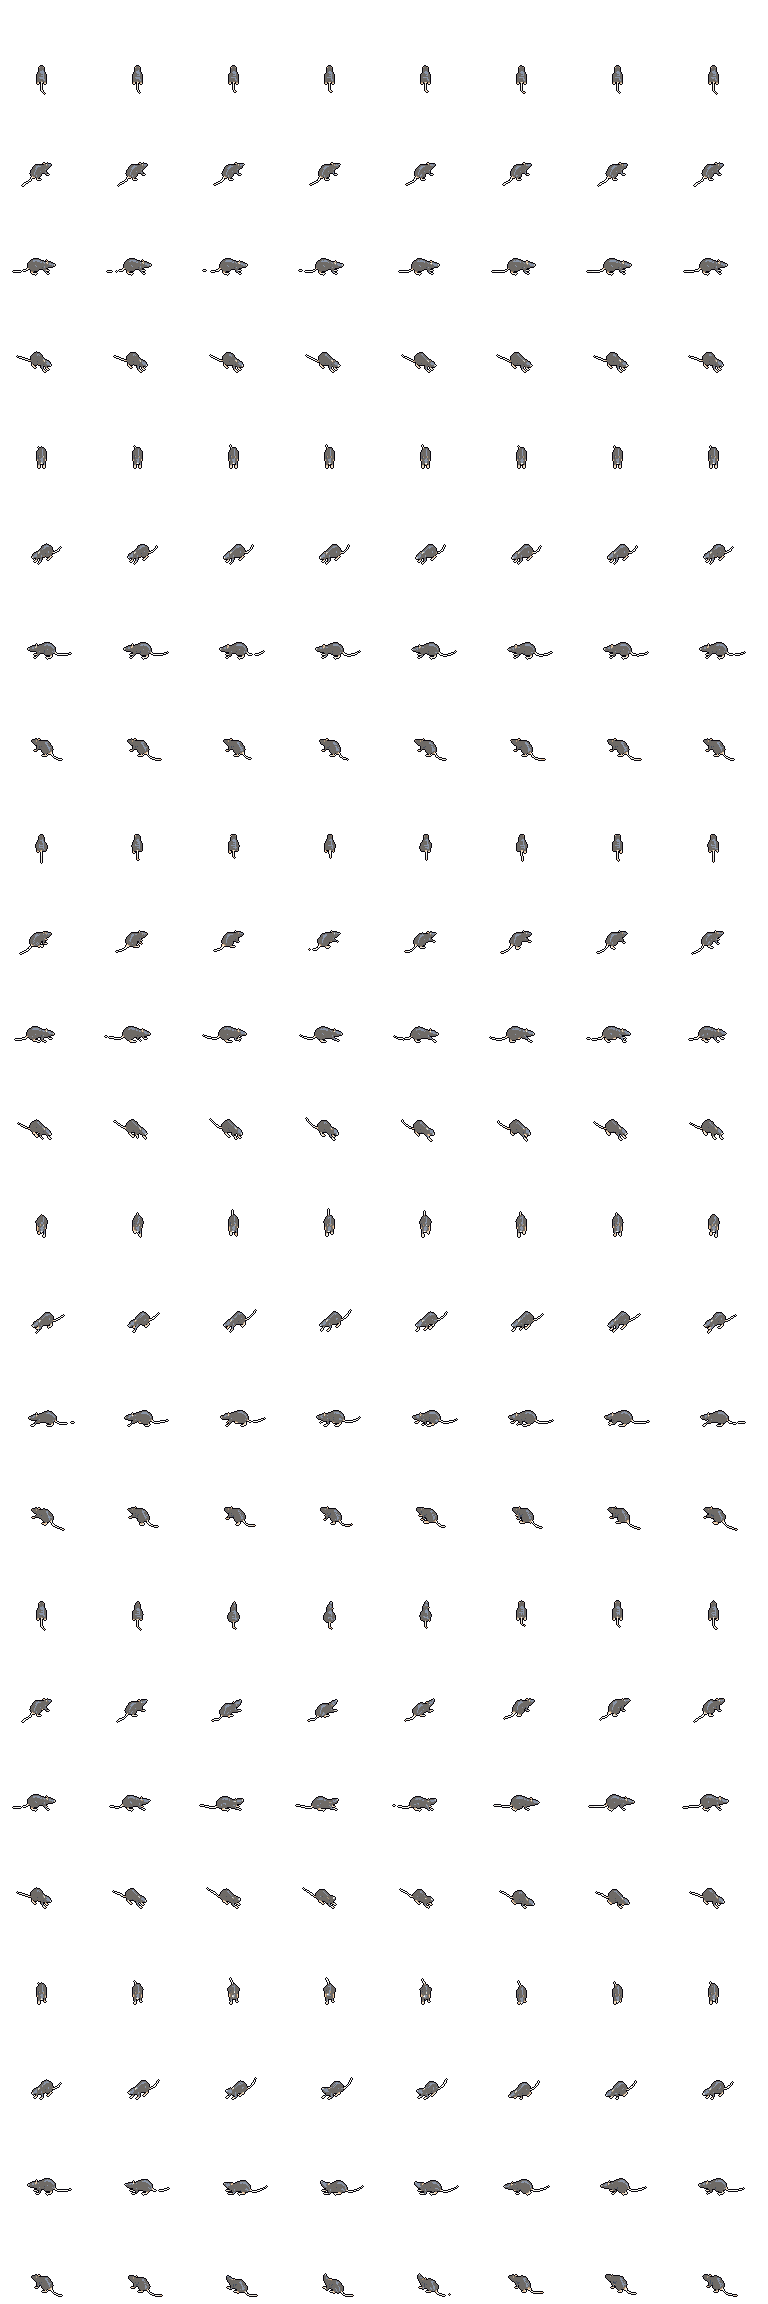
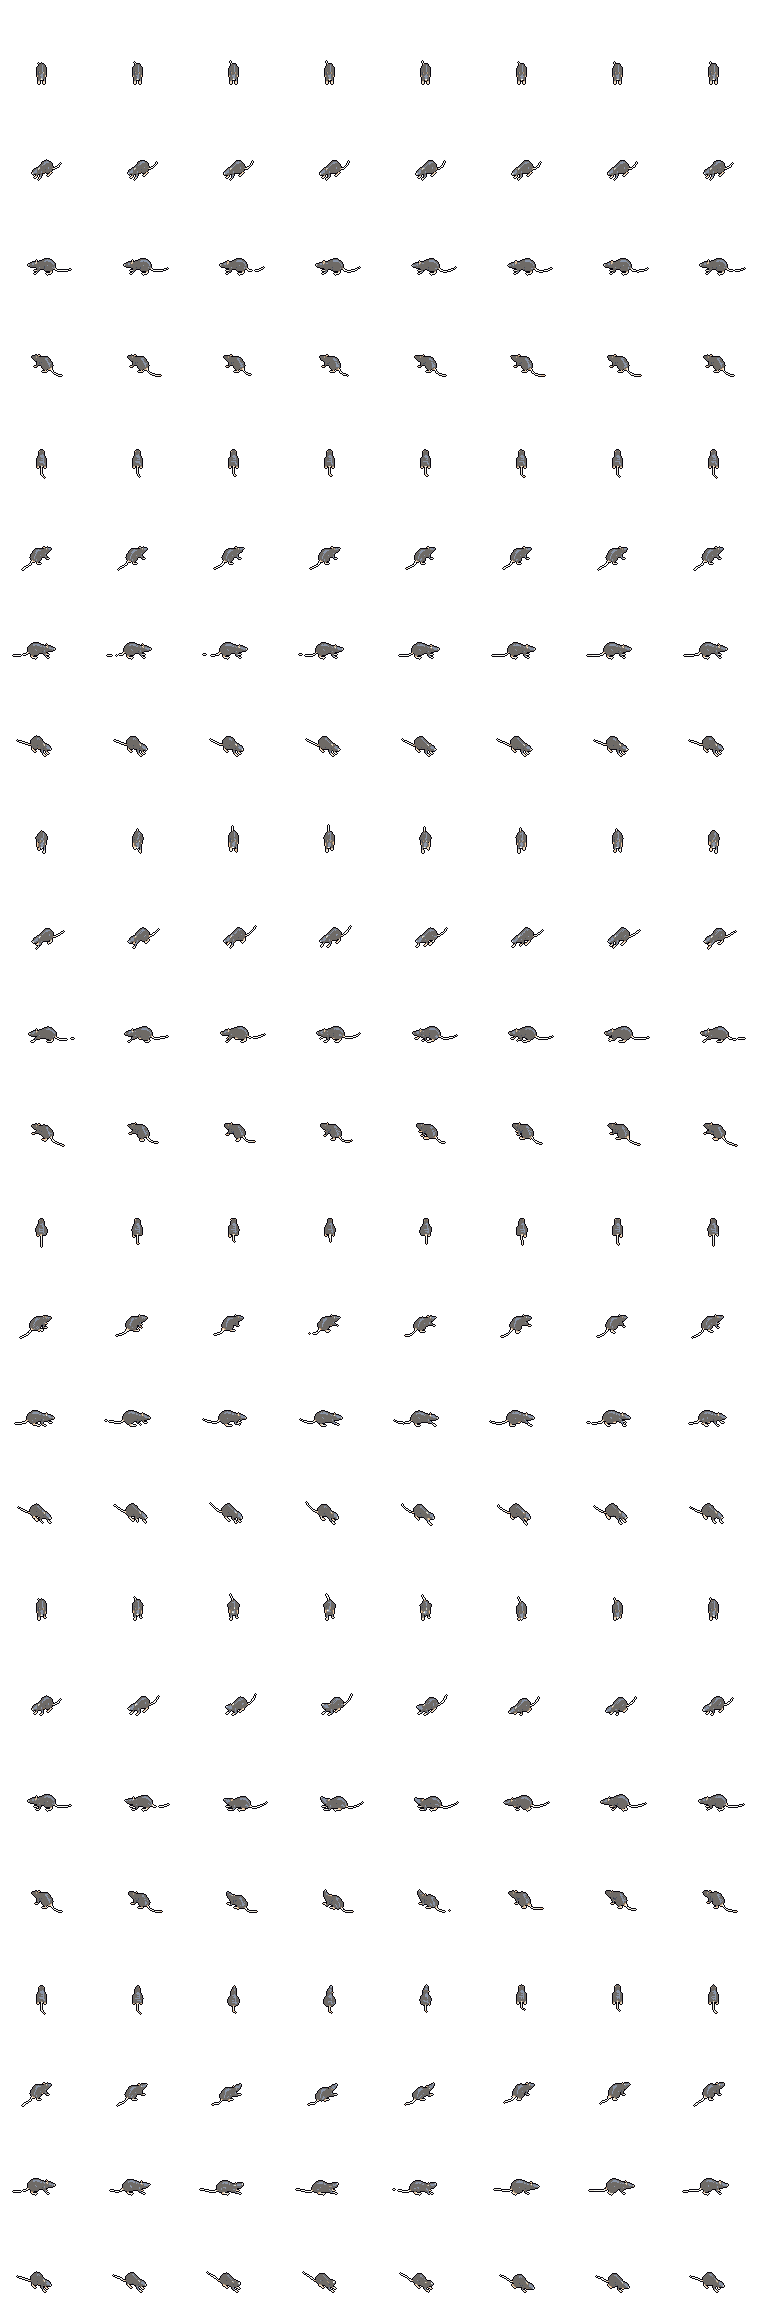
The giant rat, the worg and the hyena stand-in faced backwards too: same 180-degree sheets as the wolf, each facing row swapped with its opposite

diff --git a/deep16/data/sprites.js b/deep16/data/sprites.js
@@ -1724,7 +1724,7 @@
 }
 },
 "giantrat_p1": {
-"image": "art/giantrat_p1.png?v=3dcdc472a1",
+"image": "art/giantrat_p1.png?v=2056503c95",
 "fw": 96,
 "fh": 96,
 "ax": 48,
@@ -2554,7 +2554,7 @@
 }
 },
 "hyena_p1": {
-"image": "art/hyena_p1.png?v=a2128bb51c",
+"image": "art/hyena_p1.png?v=b0febb426b",
 "fw": 96,
 "fh": 96,
 "ax": 48,
@@ -4967,7 +4967,7 @@
 }
 },
 "worg_p1": {
-"image": "art/worg_p1.png?v=8d495ead01",
+"image": "art/worg_p1.png?v=1c680e8e0f",
 "fw": 120,
 "fh": 122,
 "ax": 60,

diff --git a/deep16/index.html b/deep16/index.html
@@ -74,7 +74,7 @@
 <script src="js/art.js?v=1b2a34fbd2"></script>
 <script src="data/cavern.js?v=bb07571b02"></script>
 <script src="data/maps.js?v=7846d6ebc8"></script>
-<script src="data/sprites.js?v=2df970c686"></script>
+<script src="data/sprites.js?v=05f0194618"></script>
 <script src="js/sprites.js?v=4f7651ca51"></script>
 <script src="js/save.js?v=7b994bec8b"></script>
 <script src="data/spells.js?v=4c8f7edae1"></script>
